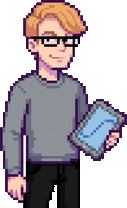
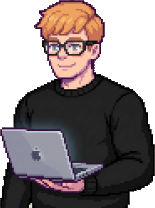
Poké-folio: Pat in his black sweater and glasses with his MacBook; Tora is back
Claude-Session: https://claude.ai/code/session_019otJJxeEBoUogCReBSfgxp

diff --git a/game/data.js b/game/data.js
@@ -135,8 +135,11 @@ export const TRAINERS = {
   mia: { name: "ANNA", role: "SOCIAL LEAD", look: "anna", port: "t_anna", x: 62, y: 11, dir: "left", lv: 2, team: ["vertical"],
     intro: ["Omg hiii. Can it be a trend?", "Like, vertical, but it has to feel organic.", "And can we hook them in the first half a second?"],
     win: ["Okay that's actually so good. Posting it now."], after: ["It's doing numbers. Like, real numbers."] },
-  cmo: { name: "TOMMY", role: "CMO", look: "cmo", port: "t_cmo", x: 35, y: 9, dir: "down", lv: 4, boss: 1, team: ["roi"], needs: ["darren", "gary", "jules", "mia"], unlock: "THE CMO WANTS A WORD. NORTH ROAD.",
-    gate: ["My team speaks for me.", "Get past Jimi, Paris, Branco and Anna first. Then we'll talk."],
+  priya: { name: "TORA", role: "MARKETING LEAD", look: "tora", port: "t_tora", x: 55, y: 28, dir: "left", lv: 1, team: ["kpi"],
+    intro: ["Hi! Huge fan of the work.", "Before we brief, can we align on the verticals?", "And I'll need KPIs for each one. Per platform. Per week."],
+    win: ["Fine. I'll tell the team the KPI is vibes."], after: ["We're seeing really strong engagement on this chat."] },
+  cmo: { name: "TOMMY", role: "CMO", look: "cmo", port: "t_cmo", x: 35, y: 9, dir: "down", lv: 4, boss: 1, team: ["roi"], needs: ["darren", "priya", "gary", "jules", "mia"], unlock: "THE CMO WANTS A WORD. NORTH ROAD.",
+    gate: ["My team speaks for me.", "Get past Jimi, Tora, Paris, Branco and Anna first. Then we'll talk."],
     intro: ["So. You're the one who's been getting past my team.", "Let's talk numbers. Then stakeholders. Then numbers again."],
     win: ["...Fine. It's approved.", "Don't change a thing."], after: ["Approved. Go and make it."] },
   // home: the last and hardest test
